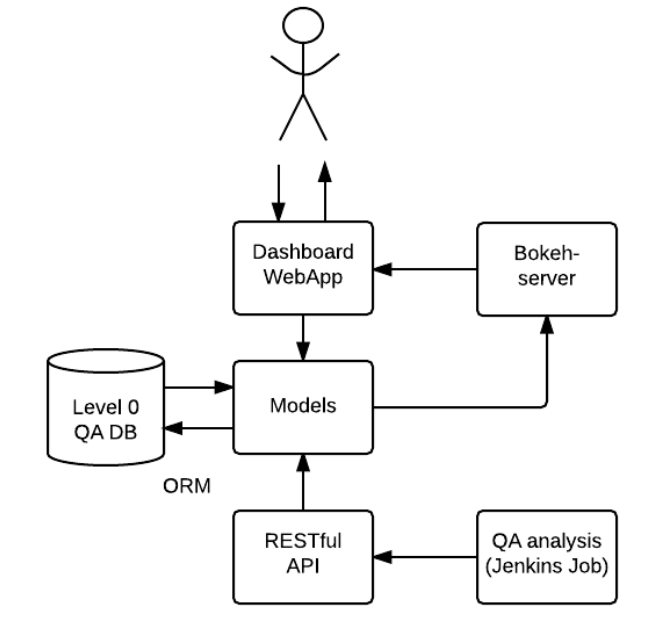
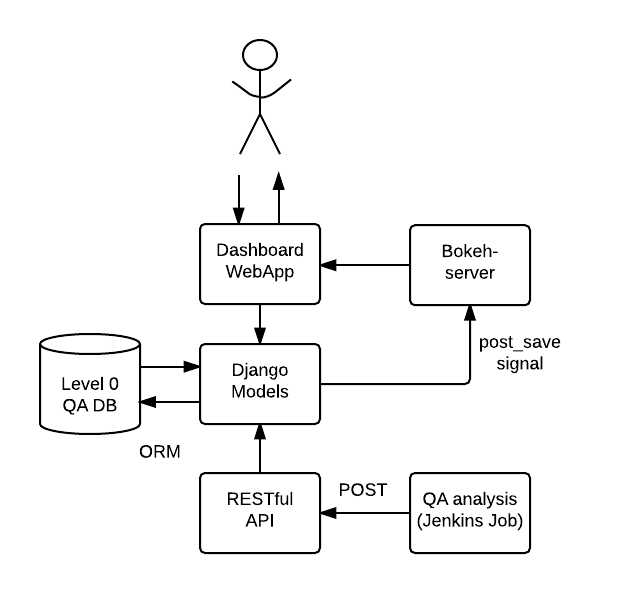
Updated fig 1 with the dashboard architecture

Changed region(s): [[0.0613, 0.2428, 0.95, 0.9713], [0.3677, 0.0, 0.521, 0.2428]]

diff --git a/index.rst b/index.rst
@@ -91,12 +91,12 @@ The main visualization needs, as summarized at https://dev.lsstcorp.org/trac/wik
 has also been taken into consideration.
 
 
-Components
-==========
+Architecture
+============
 
-The main components of the SQUASH dashboard prototype are shown in figure 1. 
-The figure shows the integration of the QA analysis code with the Django
-web application, the Bokeh-server and the QA Database through the ORM layer. 
+The architecture of the SQUASH dashboard is shown in figure 1.
+The QA analysis code sends data to the dashboard through a ``POST`` request
+and a ``post_save`` signal from Django is used to update the bokeh sessions.
 
 .. figure:: _static/components.png
    :name: fig-components
@@ -105,8 +105,6 @@ web application, the Bokeh-server and the QA Database through the ORM layer.
 
    Main components of SQUASH dashboard prototype.
 
-For development all these components run on a local computer, but if the size of the
-datasets become an issue, the bokeh server can run on a remote server closer to the data.
 
 
 Implementation Phases
